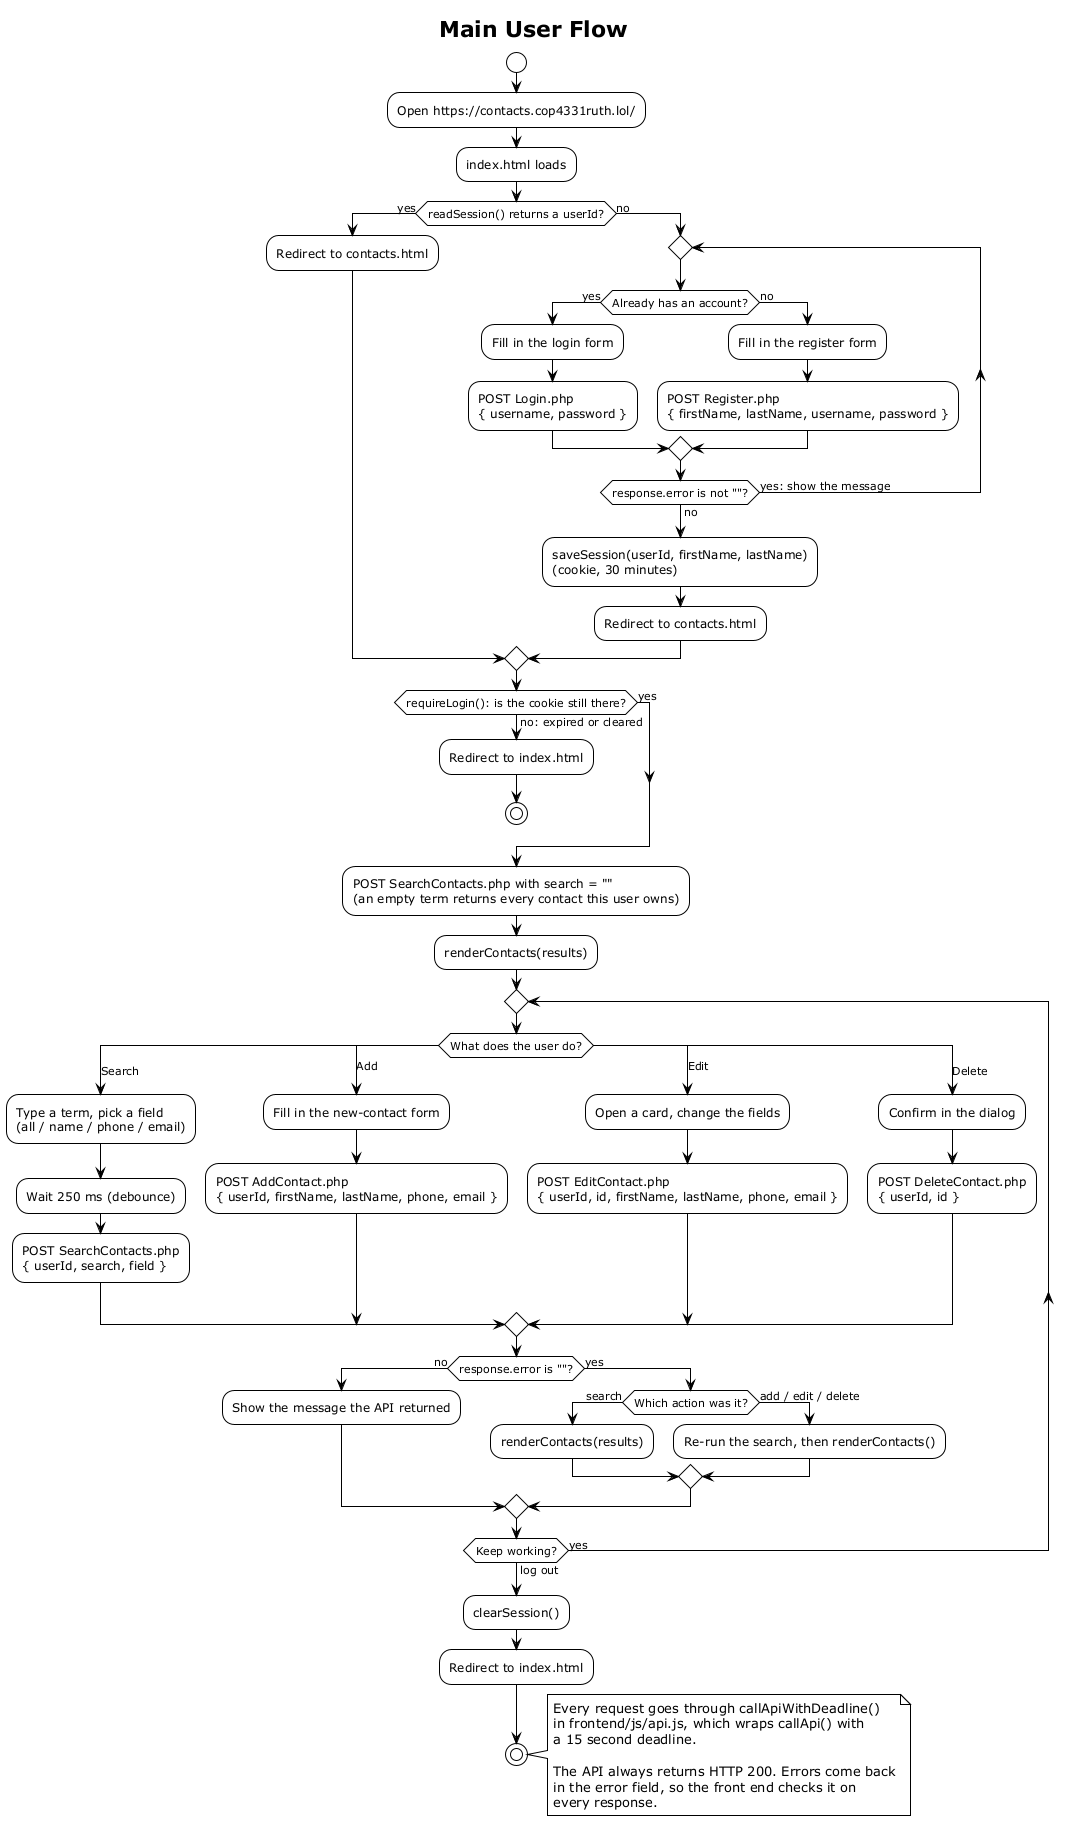
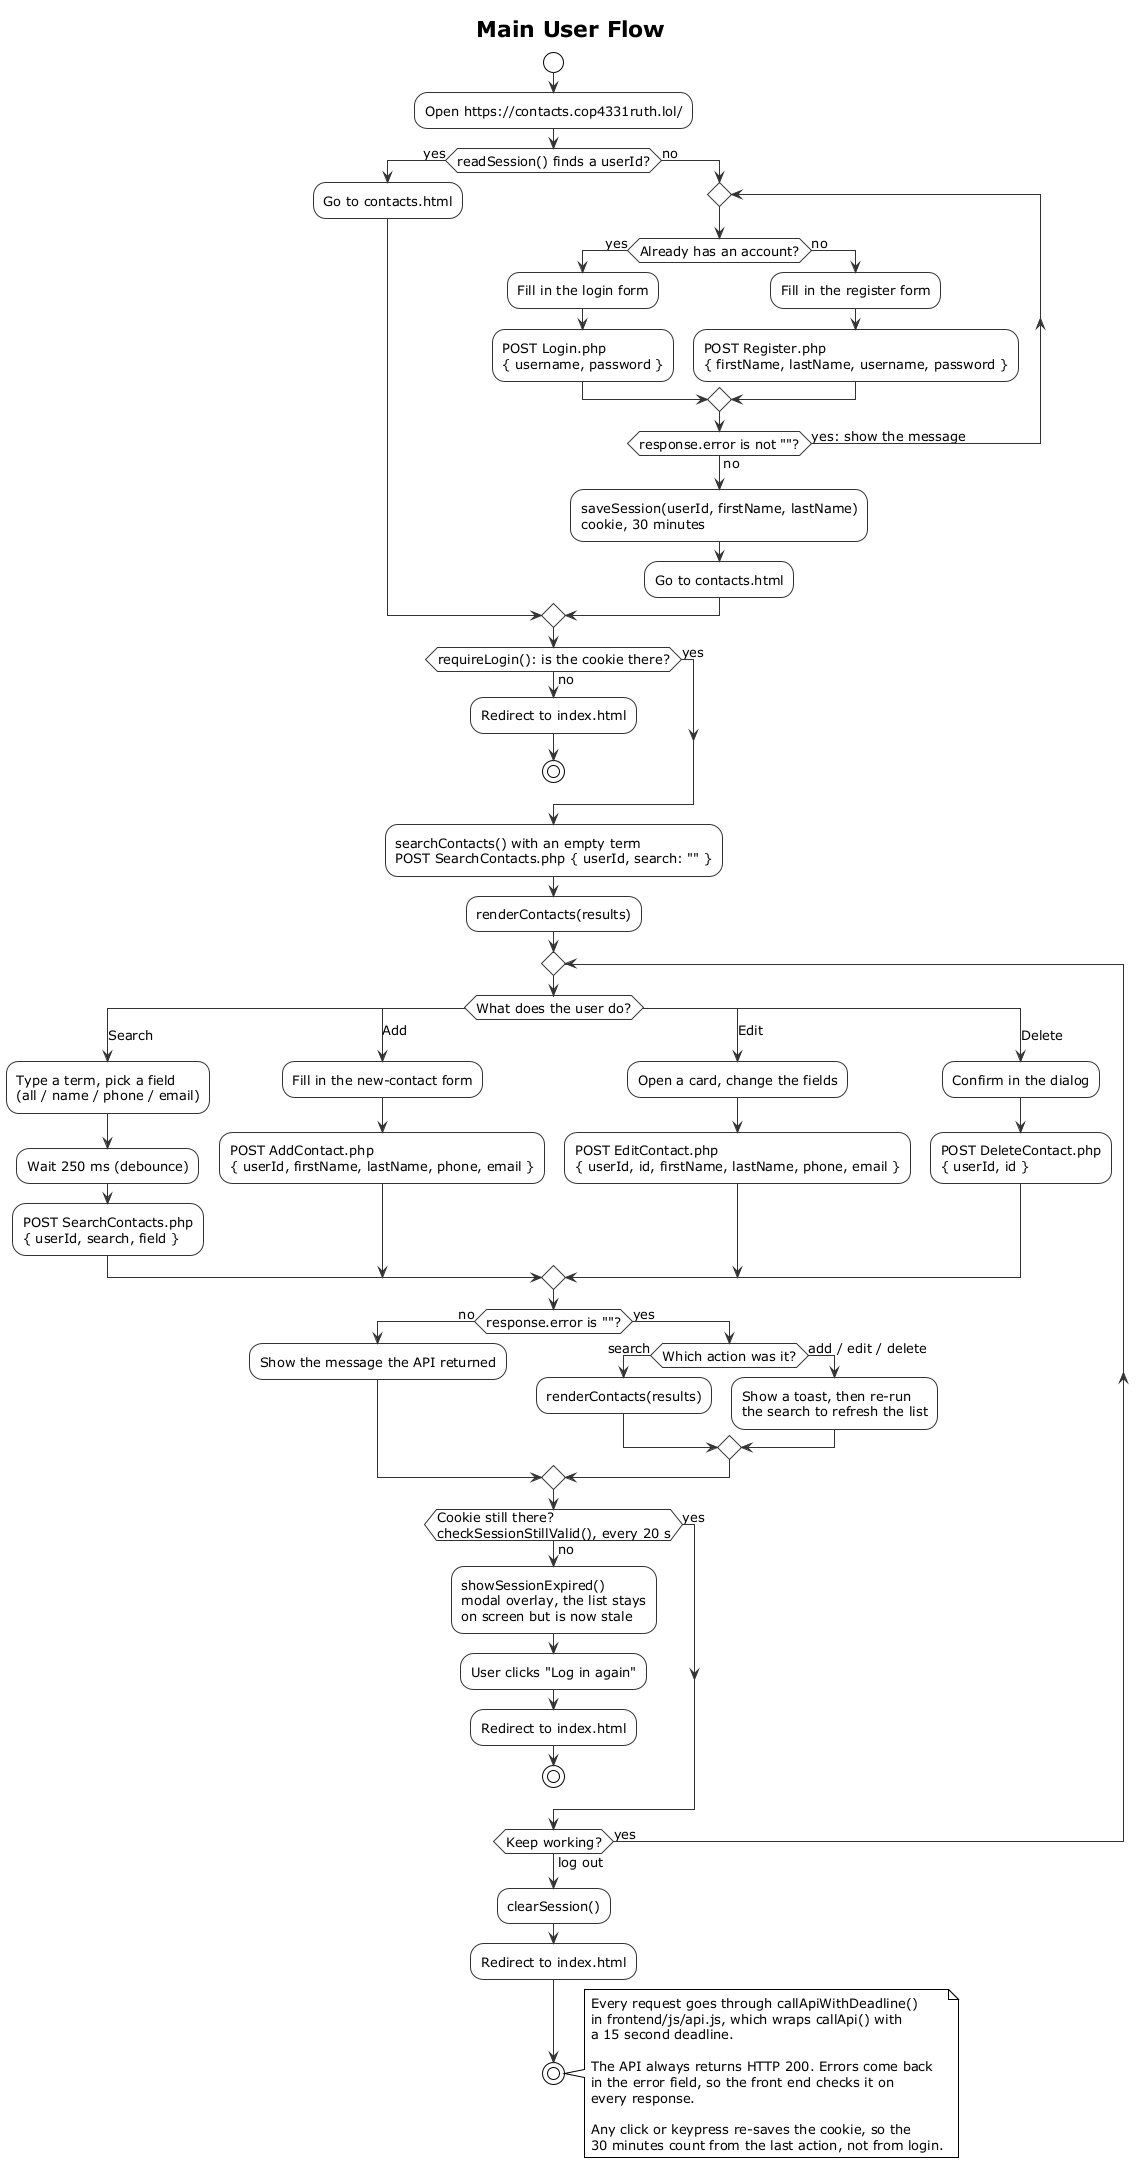
Verify the three UML diagrams against the merged code
Checked every claim in the diagrams against the current API/ and frontend/js/
after the merge from main, and corrected what had drifted.

Activity:
  - Session handling was wrong. The diagram only checked the cookie at page
    load. The real page also runs checkSessionStillValid() every 20 seconds
    and, when the cookie is gone, shows a modal overlay rather than
    redirecting; the list stays on screen but is stale. Added that branch.
  - Noted that any click or keypress re-saves the cookie, so the 30 minutes
    run from the last action rather than from login.
  - Add, edit and delete show a toast before re-running the search.

Sequence:
  - Added the column rename step. SearchContacts.php does not hand MySQL's
    rows straight back; it maps ID/FirstName/... to id/firstName/... so the
    response matches the contract.
  - Noted the utf8mb4 charset on the connection.

Styling is now consistent across all three so they sit together on a slide.
PNGs and SVGs regenerated.

diff --git a/docs/uml/README.md b/docs/uml/README.md
@@ -12,11 +12,18 @@ needs changing.
 |---|---|---|
 | `use-case.puml` | Use case | The `User` actor against the seven things the app lets them do, with the endpoint that implements each one |
 | `activity.puml` | Activity | Open the site through login or register, the contacts page, the four contact operations, and logout |
-| `sequence-search.puml` | Sequence | One search, end to end: `contacts.js` -> `callApi()` -> `SearchContacts.php` -> `db.php` -> MySQL and back |
+| `sequence-search.puml` | Sequence | One search, end to end: `contacts.js` -> `api.js` -> `SearchContacts.php` -> `db.php` -> MySQL and back |
 
 The content is traced from the code, not from the contract, so it reflects what
-actually runs: the 250 ms search debounce, the stale-response guard, the LIKE
-escaping, and the `WHERE UserID = ?` scoping.
+actually runs:
+
+- every call goes through `callApiWithDeadline()`, which wraps `callApi()` with
+  a 15 second deadline
+- the 250 ms search debounce and the stale-response guard in `searchContacts()`
+- the session watchdog: `checkSessionStillValid()` every 20 seconds, and any
+  click or keypress re-saving the cookie
+- the LIKE escaping of `%`, `_` and backslash, and the `WHERE UserID = ?` scoping
+- the column rename (`ID` -> `id`) that keeps the response matching the contract
 
 ## Regenerating the images
 
